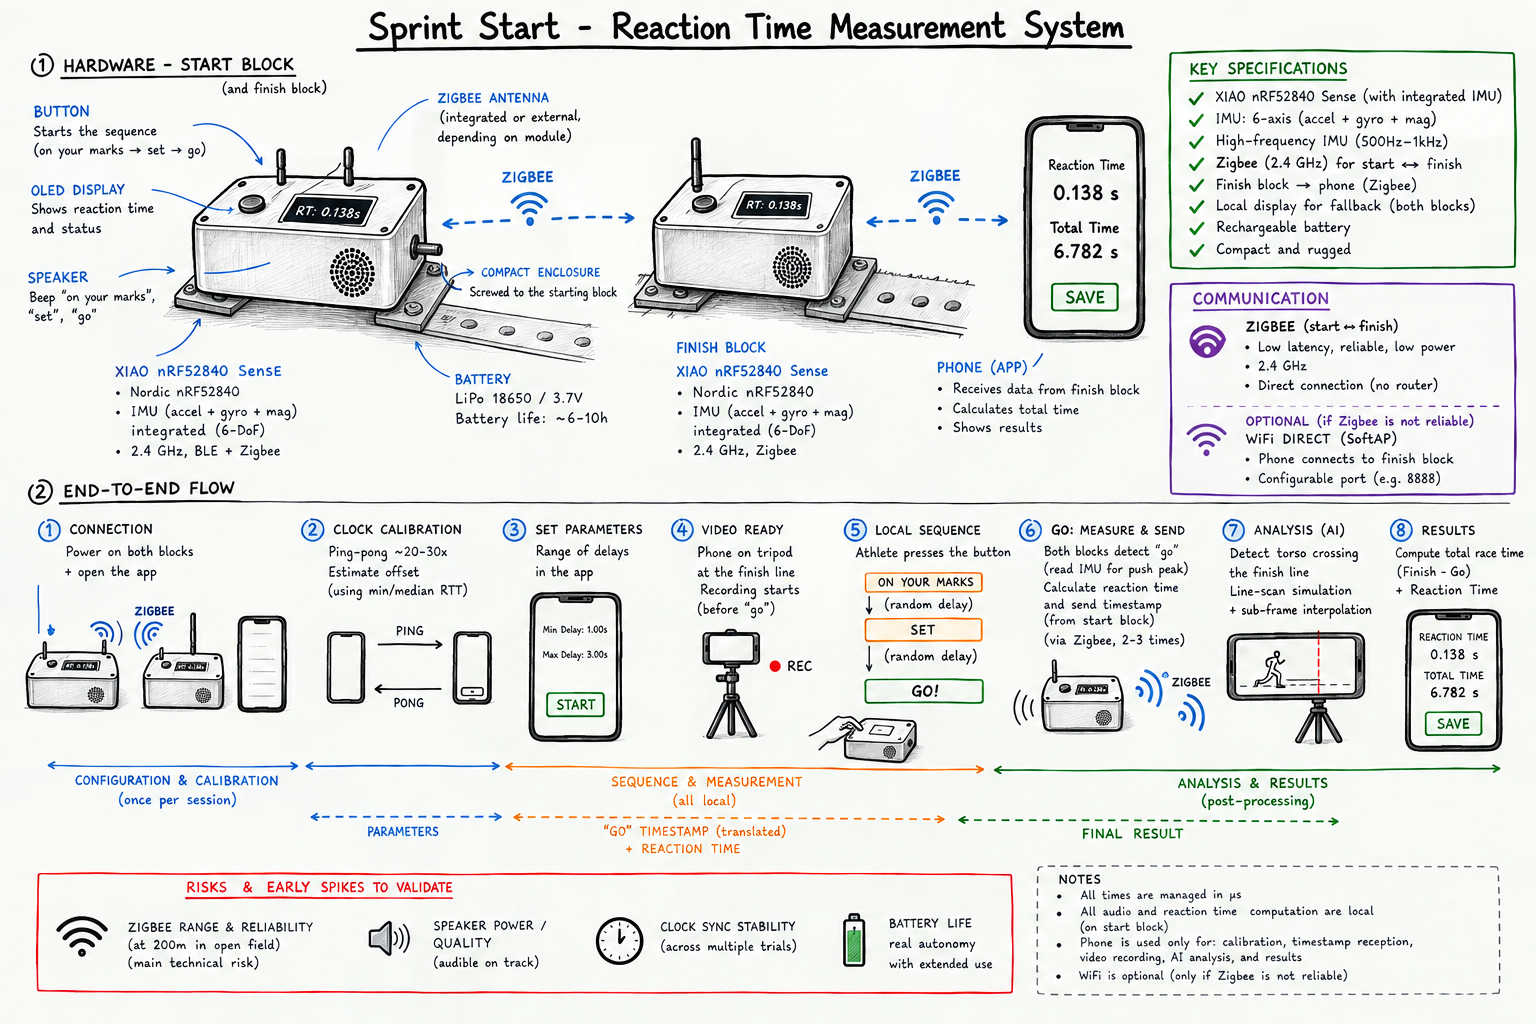
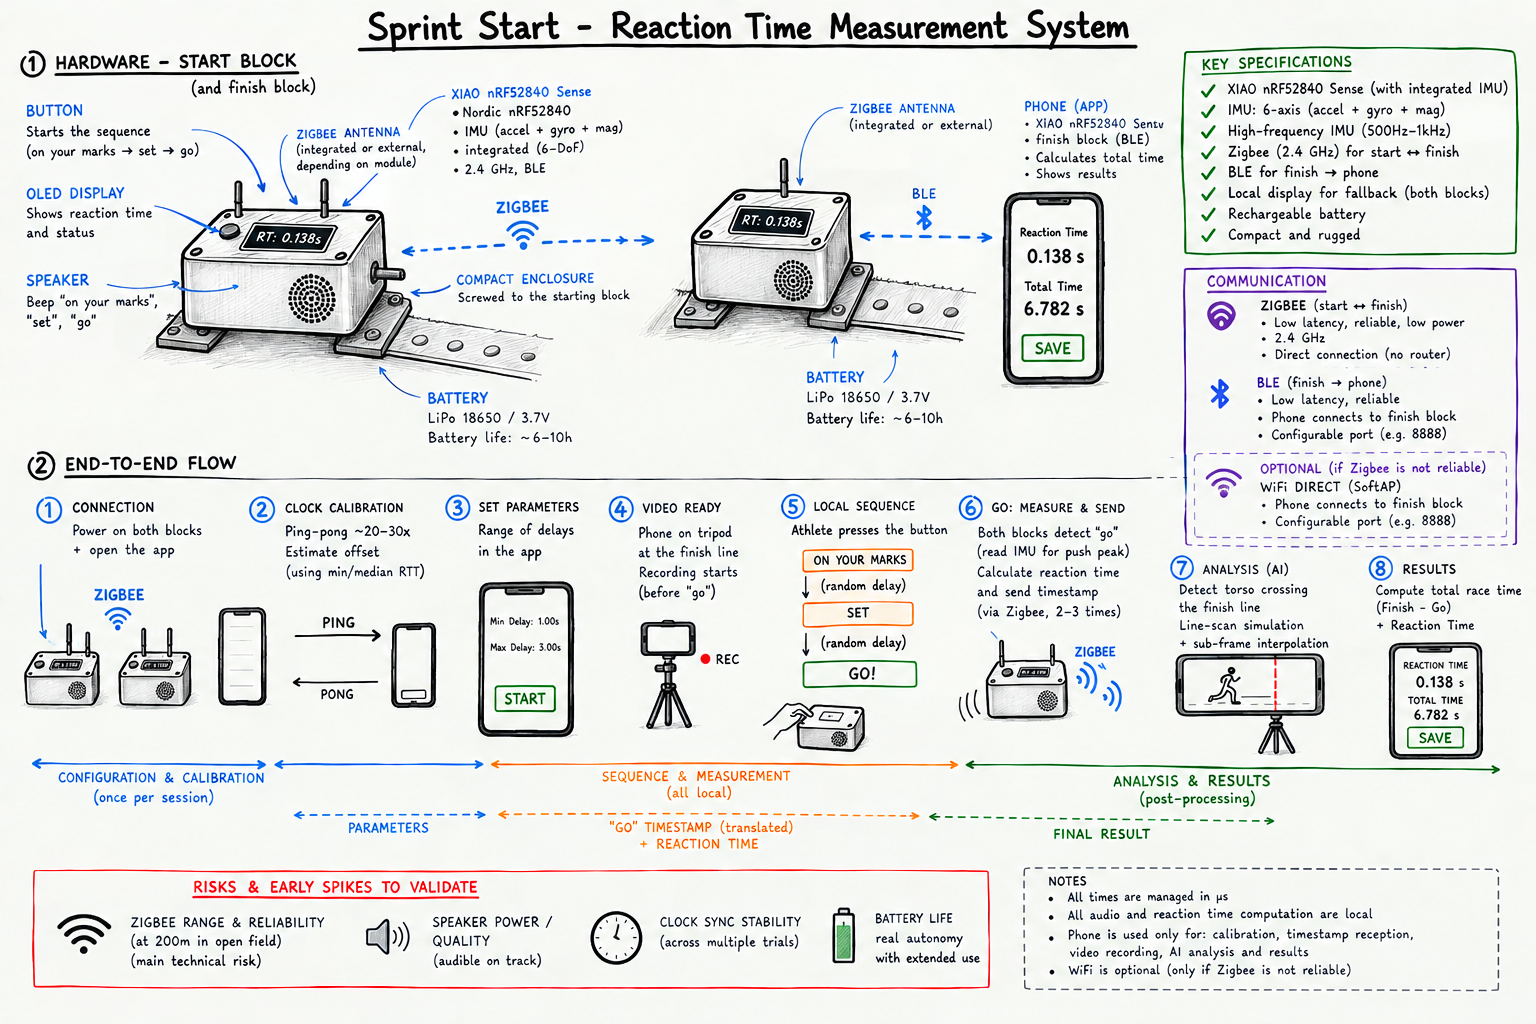
Diagramma v2 corretto, README allineato, fix path residui
Sostituito Docs/reaction_time_diagram_v2.png con la versione corretta:
Zigbee per start<->finish, BLE per finish->telefono, WiFi Direct/SoftAP
come fallback solo per l'hop start<->finish. La prima versione del
diagramma mostrava Zigbee end-to-end, in contraddizione col testo del
README - risolto, immagine e testo ora concordano. Aggiornati README
(alt text, tabella decisioni, rischi) e HANDOFF con la risoluzione.

Inclusi anche i fix a .gitignore e ai due script in Tools/ (percorsi
data/tools -> Data/Tools) rimasti fuori per errore dal commit precedente.

diff --git a/Tools/csv_plot.py b/Tools/csv_plot.py
@@ -5,16 +5,16 @@ Arduino/HighFrequencySampleRate/CSV_Visualizer, which crashed outright on
 anything but its own original column layout.
 
 Handles both formats seen in this repo:
-  - current (tools/accel_live.py): commented metadata header, then
+  - current (Tools/accel_live.py): commented metadata header, then
     t_s,t_us,x_g,y_g,z_g,host_iso
-  - older (e.g. data/Block_Start_Data.csv): no comment header,
+  - older (e.g. Data/blockstart_20260831_test0.csv): no comment header,
     timestamp_iso,elapsed_s,x_g,y_g,z_g
 
 The time column is auto-detected (t_s if present, else elapsed_s), so both
 plot correctly without needing to know which pipeline produced the file.
 
 Usage:
-    python3 tools/csv_plot.py
+    python3 Tools/csv_plot.py
 
 Always opens a file-browser dialog to pick the CSV - no path to type or
 remember on the command line.
@@ -38,7 +38,7 @@ def pick_file():
     repo_root = os.path.dirname(os.path.dirname(os.path.abspath(__file__)))
     return filedialog.askopenfilename(
         title="Select an accel_live CSV file",
-        initialdir=os.path.join(repo_root, "data"),
+        initialdir=os.path.join(repo_root, "Data"),
         filetypes=[("CSV files", "*.csv"), ("All files", "*.*")],
     )
 
@@ -56,7 +56,7 @@ def main(argv=None):
     df["mag_g"] = np.sqrt(df["x_g"] ** 2 + df["y_g"] ** 2 + df["z_g"] ** 2)
 
     if "t_s" in df.columns:
-        time_col = "t_s"          # tools/accel_live.py
+        time_col = "t_s"          # Tools/accel_live.py
     elif "elapsed_s" in df.columns:
         time_col = "elapsed_s"    # older kinestart/BLEtest.ino format
     else:

diff --git a/Tools/accel_live.py b/Tools/accel_live.py
@@ -8,9 +8,9 @@ CSV + a PNG overview on request. t_us is a real per-sample micros() reading
 taken on the board, not a nominal index * period.
 
 Usage:
-    python3 tools/accel_live.py                    # autodetect the port
-    python3 tools/accel_live.py --port /dev/cu.usbmodem1101
-    python3 tools/accel_live.py --simulate          # no hardware, UI only
+    python3 Tools/accel_live.py                    # autodetect the port
+    python3 Tools/accel_live.py --port /dev/cu.usbmodem1101
+    python3 Tools/accel_live.py --simulate          # no hardware, UI only
 
 Controls: on-screen buttons, or keys r (record), s (stop), p (snapshot PNG).
 
@@ -35,7 +35,7 @@ CMD_START = b"r"
 CMD_STOP = b"s"
 
 REPO_ROOT = os.path.dirname(os.path.dirname(os.path.abspath(__file__)))
-DEFAULT_OUTDIR = os.path.join(REPO_ROOT, "data")
+DEFAULT_OUTDIR = os.path.join(REPO_ROOT, "Data")
 
 
 # ---------------------------------------------------------------------------

diff --git a/README.md b/README.md
@@ -8,7 +8,7 @@
 
 ## 🖼 System at a glance
 
-![System overview v2: the start block and finish block (each a XIAO nRF52840 Sense with button, OLED, speaker, IMU, battery, in a compact enclosure) linked by Zigbee, the finish block relaying to the phone app, and the eight-step end-to-end flow from connection and clock calibration, through the local start sequence and reaction-time measurement, to AI torso-crossing analysis and results on the phone.](Docs/reaction_time_diagram_v2.png)
+![System overview v2: the start block and finish block (each a XIAO nRF52840 Sense with button, OLED, speaker, IMU, battery, in a compact enclosure) linked by Zigbee, the finish block relaying to the phone app over BLE (with WiFi Direct as a fallback if Zigbee is unreliable), and the eight-step end-to-end flow from connection and clock calibration, through the local start sequence and reaction-time measurement, to AI torso-crossing analysis and results on the phone.](Docs/reaction_time_diagram_v2.png)
 
 *Both blocks compute and timestamp locally in microseconds on their own clock. The phone is used only for calibration, receiving results, recording video, and AI post-processing.*
 
@@ -53,7 +53,7 @@ Start unit (XIAO #1)  --Zigbee-->  Finish unit (XIAO #2)  --BLE-->  Phone (Flutt
 ```
 
 - **Start unit** — sits at the blocks. Button trigger, onboard speaker for the "on your marks – set – go" sequence, and an IMU (accelerometer) that detects the push-off. Reaction time is computed **locally**, on the same clock that generated the "go" cue, so BLE/Zigbee latency downstream never touches the measurement itself.
-- **Finish unit** — sits at (or near) the finish line, within BLE range of the phone. Receives the start unit's timestamp over **Zigbee** (longer range and low power, well suited to a fixed point-to-point link) and relays it to the phone over **BLE** — so the phone only ever needs to be near the finish line, never the start.
+- **Finish unit** — sits at (or near) the finish line, within BLE range of the phone. Receives the start unit's timestamp over **Zigbee** (longer range and low power, well suited to a fixed point-to-point link) and relays it to the phone over **BLE** — so the phone only ever needs to be near the finish line, never the start. If Zigbee proves unreliable in the field, **WiFi Direct (SoftAP)** is the documented fallback for the same start↔finish hop.
 - **Phone (Flutter app)** — displays the reaction time, logs it, and runs the photo-finish pipeline against its own camera feed.
 
 This split is under active validation right now — the open question is whether the two independent microcontrollers' clocks can be synchronized precisely enough across the Zigbee hop for reaction-time-grade timing. See [Open Risks](#-open-risks--things-to-validate).
@@ -64,7 +64,7 @@ This split is under active validation right now — the open question is whether
 |---|---|---|
 | Push-off detection | **IMU** (accelerometer) on device body | Cheap, no block modification needed, easy retrofit — vs. a force/pressure sensor behind the pedal (more accurate, but invasive) |
 | Start sequence | **Onboard speaker**, locally generated | Zero sync uncertainty between "go" cue and measurement clock, works without a human starter |
-| Start ↔ Finish link | **Zigbee** | Longer reliable range than BLE at low power, for a fixed point-to-point link that doesn't need a phone in the middle |
+| Start ↔ Finish link | **Zigbee**, WiFi Direct (SoftAP) as fallback | Longer reliable range than BLE at low power, for a fixed point-to-point link that doesn't need a phone in the middle |
 | Finish ↔ Phone link | **BLE** | Short-range but simple and universal; the phone only needs to be near the finish line, not the start |
 
 ---
@@ -210,8 +210,8 @@ For exact tool/library versions and the full step-by-step for both firmware and 
 
 What we're actually seeing right now, not a wishlist:
 
-- ❌ **Wi-Fi is out.** Ruled out on UX grounds (see [How the System Works](#-how-the-system-works)) — not being pursued further.
-- 📏 **BLE range measured at ~25 m max**, confirmed in real testing — this is what forced the two-hop Zigbee + BLE design.
+- ❌ **Wi-Fi as the primary phone link is out.** Ruled out on UX grounds (see [How the System Works](#-how-the-system-works)) — a direct SoftAP link to the phone is not being pursued. WiFi Direct (SoftAP) still exists as a narrower fallback purely for the start↔finish hop, only if Zigbee proves unreliable there.
+- 📏 **BLE range measured at ~25 m max**, confirmed in real testing — this is what forced the two-hop Zigbee + BLE design instead of a single BLE link end-to-end.
 - 🔄 **Zigbee start↔finish link — in progress.** We're now building and testing the two-XIAO link; the open question is whether the two boards' independent clocks can be synchronized tightly enough over Zigbee for reaction-time-grade precision. Not yet validated.
 - 🔊 **Speaker audibility** on an active, noisy track, at range.
 - 🔋 **Battery life** under real, extended use, for both units.

diff --git a/HANDOFF.md b/HANDOFF.md
@@ -29,19 +29,18 @@ it's documentation and product/business content only. What changed:
   `README.md` (redundant with the image), replaced by a prose "How the
   System Works" section.
 
-**Unresolved discrepancy, flagged but not resolved — needs a human decision:**
-the user described the finish unit as talking **BLE** to the phone, and
-`README.md`'s prose says exactly that. But the new `reaction_time_diagram_v2.png`
-the user supplied shows the finish block talking **Zigbee** to the phone too
-(end-to-end Zigbee: start↔finish↔phone), with **Wi-Fi Direct/SoftAP as a
-documented fallback** if Zigbee proves unreliable — no BLE anywhere in that
-diagram. These two sources of truth disagree. `README.md`'s prose currently
-still says BLE for the finish↔phone hop; it was **not** rewritten to match
-the diagram, since which one is actually correct is a product decision, not
-something to infer. Whoever picks this up next should get a straight answer
-from the user on which link the finish unit actually uses to the phone, then
-make `README.md`'s prose, the Hardware/Software Stack tables, and the Open
-Risks section consistent with the diagram (or vice versa).
+**Discrepancy above: resolved 2026-09-04, same day.** The first
+`reaction_time_diagram_v2.png` the user supplied showed the finish block
+talking Zigbee to the phone (no BLE anywhere in it), contradicting the
+user's own verbal description and `README.md`'s prose (both said BLE). The
+user then supplied a corrected diagram (same filename, overwritten) that
+matches the verbal description: **Zigbee for start↔finish, BLE for
+finish↔phone**, with **WiFi Direct (SoftAP) as a fallback specifically for
+the start↔finish hop** if Zigbee proves unreliable — not a phone-facing
+fallback. `README.md`'s "How the System Works", "Key design decisions"
+table, and "Open Risks" section were updated to state the WiFi-fallback
+nuance explicitly, so the image and the prose now agree. Nothing further to
+reconcile here.
 
 ## READ THIS FIRST — repo reorganized 2026-09-04, BLEtest.ino removed
 
